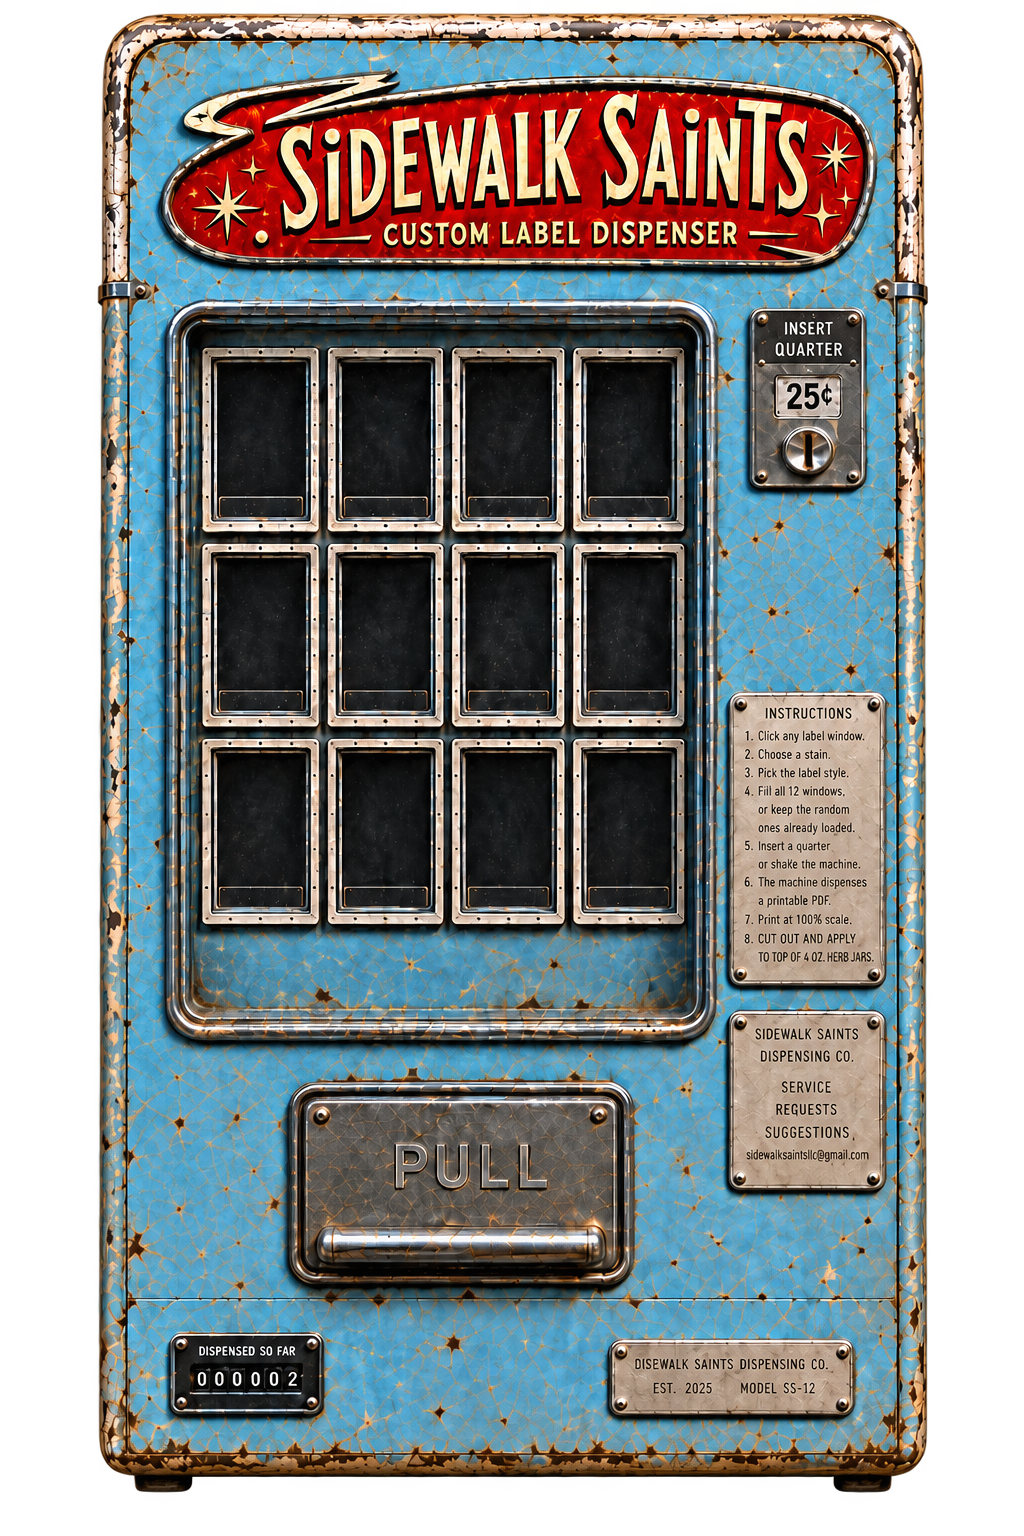
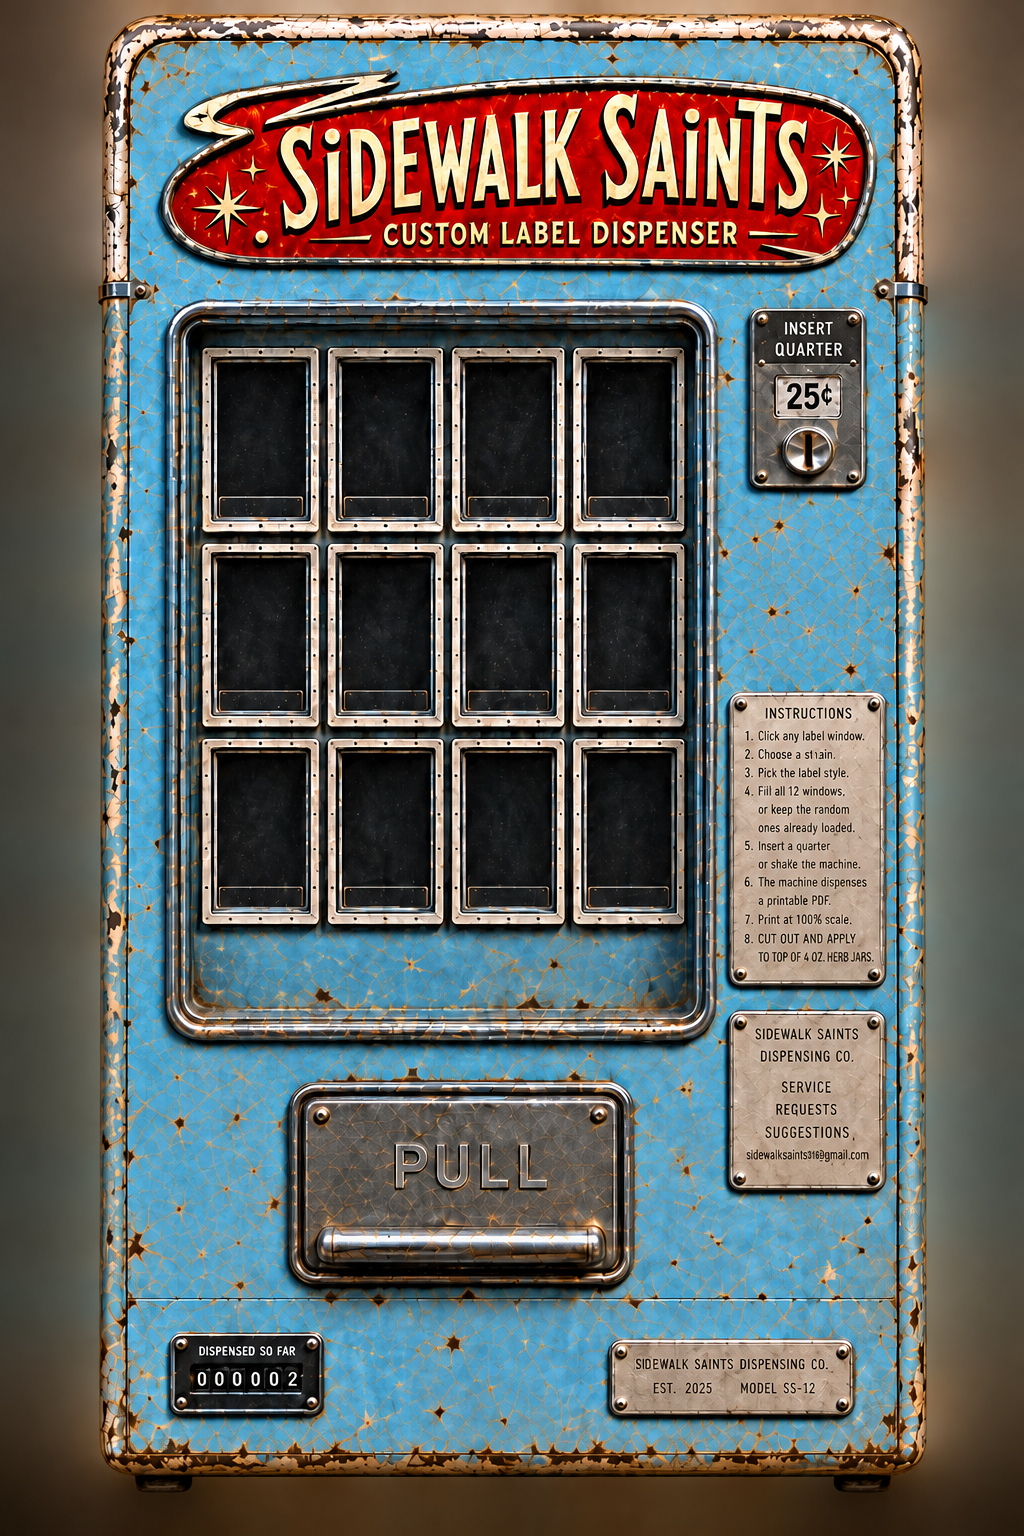
Fix machine-art typos; scale odometer & footer with the machine
- Correct baked-in typos on machine.png (pixel-edited in place):
  DISEWALK -> SIDEWALK, email llc -> 316, instructions "stain" -> "strain"
- Cache-bust the machine image (?v=2)
- Odometer digits scale with the machine via container-query units (2.7cqw)
  instead of viewport width, staying proportional at any screen size
- SEO footer scales with viewport height and uses a muted color that blends
  into the floor while remaining legible

Changed region(s): [[0.0, 0.0, 1.0, 1.0]]

diff --git a/styles.css b/styles.css
@@ -48,6 +48,8 @@ body {
     max-width: 96vw !important;
     z-index: 2 !important;
     display: block !important;
+    /* query container so overlay text (odometer) scales WITH the machine */
+    container-type: size !important;
     filter: drop-shadow(0 14px 22px rgba(0, 0, 0, 0.42));
 }
 
@@ -239,7 +241,7 @@ body {
     font-family: "Courier New", Courier, monospace !important;
     font-weight: 700 !important;
     letter-spacing: 0.12em !important;
-    font-size: clamp(7px, 1.9vw, 13px) !important;
+    font-size: 2.7cqw !important;   /* scales with the machine, not the viewport */
     line-height: 1 !important;
 }
 
@@ -711,19 +713,20 @@ html.age-ok .age-gate,
     padding: 0 12px;
     text-align: center;
     font-family: "Courier New", Courier, monospace;
-    color: #5a4a33;
+    /* blends into the floor but stays legible — never pops */
+    color: #4a3924;
 }
 
 .site-blurb h1 {
-    margin: 0 0 6px;
-    font-size: 13px;
+    margin: 0 0 5px;
+    font-size: clamp(9px, 1.35vh, 15px);   /* scales with viewport height */
     font-weight: 700;
     letter-spacing: 0.03em;
-    color: #808080;
+    color: #3f301d;
 }
 
 .site-blurb p {
     margin: 0;
-    font-size: 12px;
-    line-height: 1.55;
+    font-size: clamp(8px, 1.15vh, 13px);
+    line-height: 1.5;
 }

diff --git a/index.html b/index.html
@@ -57,7 +57,7 @@
          alt="Land of the Fee, Home of the Slave — a note on Texas cannabis prohibition">
 
     <main class="machine-stage" aria-label="Sidewalk Saints Custom Label Dispenser">
-        <img class="machine-shell" src="assets/machine.png" alt="Sidewalk Saints Custom Label Dispenser vending machine">
+        <img class="machine-shell" src="assets/machine.png?v=2" alt="Sidewalk Saints Custom Label Dispenser vending machine">
 
         <!-- Live label windows over the empty machine windows -->
         <div class="label-grid" id="labelGrid" aria-label="Selected labels">
